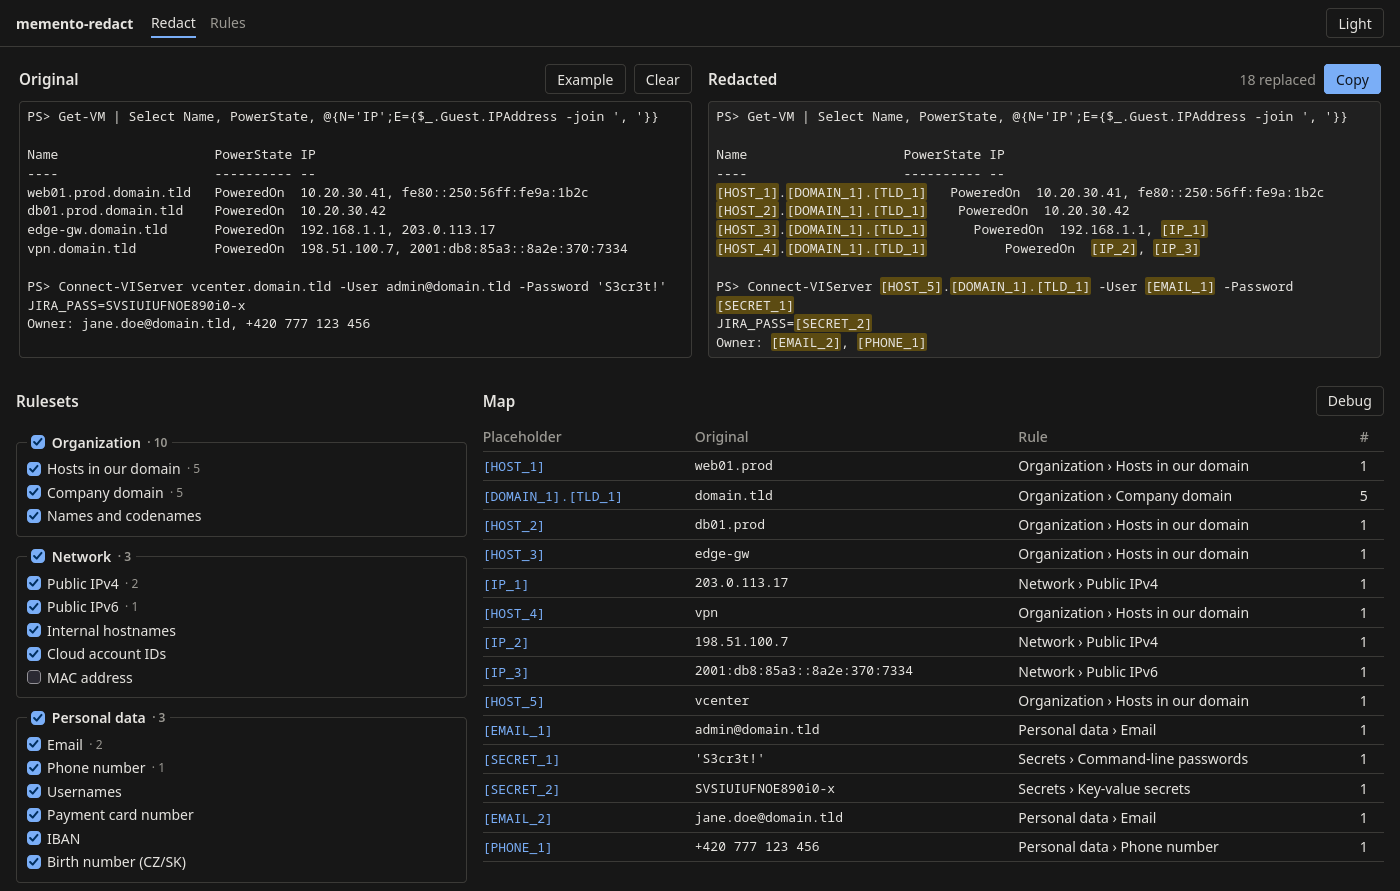
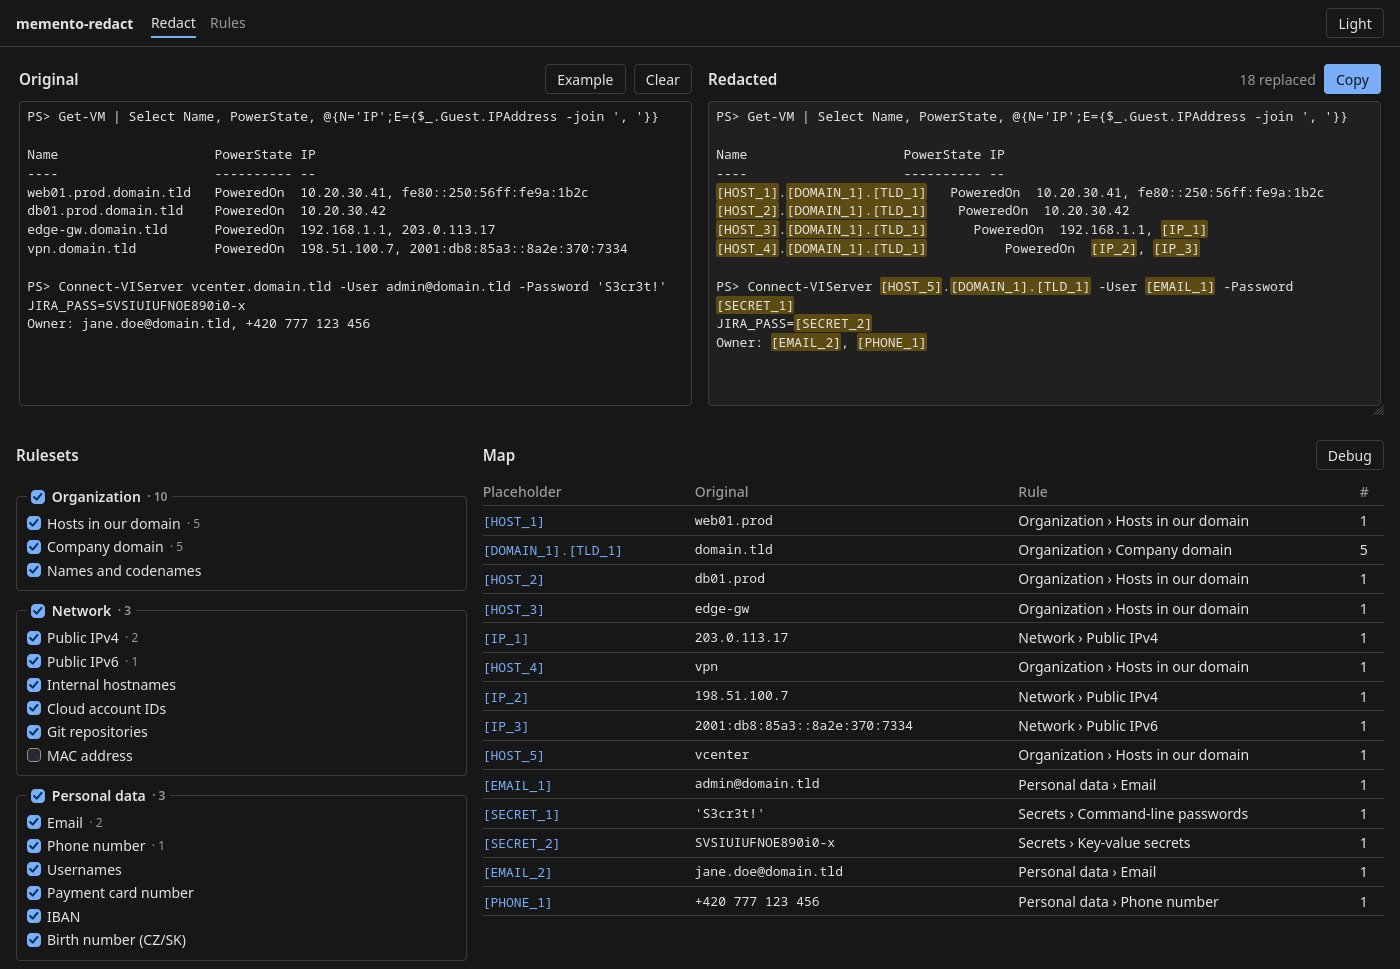
refactor: enhance documentation and user experience for redaction and debug features

diff --git a/web/src/Workspace.tsx b/web/src/Workspace.tsx
@@ -1,7 +1,7 @@
 import { useRef, useState, type ReactNode } from 'react'
 import AutoTextarea from './AutoTextarea'
 import type { MapEntry, PreviewResult, Ruleset } from './api'
-import { debugReport, escapeRegExp, reasons, type Mark, type Reason } from './debug'
+import { debugReport, escapeRegExp, reasons, saveReasons, savedReasons, type Mark } from './debug'
 import { Count, hitKey, updateRule, updateSet } from './RulesEditor'
 
 const example = `PS> Get-VM | Select Name, PowerState, @{N='IP';E={$_.Guest.IPAddress -join ', '}}
@@ -19,6 +19,8 @@ Owner: jane.doe@domain.tld, +420 777 123 456
 `
 
 const entryKey = (entry: MapEntry) => entry.token + '\u0000' + entry.original
+// select value of "New reason…"; a reason name cannot contain it
+const newReason = '\u0000new'
 
 // Copies value and reports the outcome through setNote; on failure the clipboard keeps its old content.
 async function copyText(value: string, setNote: (note: string) => void) {
@@ -78,6 +80,7 @@ export default function Workspace({ text, setText, result, upToDate, previewErro
   const [reported, setReported] = useState(new Map<string, Omit<Mark, 'entry'>>())
   const [missed, setMissed] = useState<string[]>([])
   const [reportNote, setReportNote] = useState('')
+  const [ownReasons, setOwnReasons] = useState(savedReasons)
   const outputRef = useRef<HTMLDivElement>(null)
   const jumps = useRef(new Map<string, number>())
 
@@ -93,18 +96,34 @@ export default function Workspace({ text, setText, result, upToDate, previewErro
   }
   const replacements = result?.map.reduce((sum, entry) => sum + entry.count, 0) ?? 0
 
-
   const marks: Mark[] = (result?.map ?? []).flatMap((entry) => {
     const marked = reported.get(entryKey(entry))
     return marked ? [{ entry, ...marked }] : []
   })
   const report = marks.length || missed.length ? debugReport(result?.redacted ?? '', result?.map ?? [], marks, missed, draft) : ''
 
-  function mark(entry: MapEntry, reason: Reason | '', note = reported.get(entryKey(entry))?.note) {
+  function mark(entry: MapEntry, reason: string, note = reported.get(entryKey(entry))?.note) {
     const next = new Map(reported)
     if (reason) next.set(entryKey(entry), { reason, note })
     else next.delete(entryKey(entry))
     setReported(next)
+  }
+
+  // Asks for a name, saves it as the user's own reason and marks entry with it.
+  function addReason(entry: MapEntry) {
+    const name = prompt('Name of the new reason')?.trim()
+    if (!name) return
+    if (!reasons.has(name) && !ownReasons.includes(name)) {
+      setOwnReasons([...ownReasons, name])
+      saveReasons([...ownReasons, name])
+    }
+    mark(entry, name)
+  }
+
+  function forgetReason(name: string) {
+    const next = ownReasons.filter((r) => r !== name)
+    setOwnReasons(next)
+    saveReasons(next)
   }
 
   // Adds the text selected in the redacted output as a false negative.
@@ -121,7 +140,7 @@ export default function Workspace({ text, setText, result, upToDate, previewErro
 
   return (
     <main className="workspace">
-      {/* one scroll area for both columns, so long texts stay side by side and compact */}
+      {/* one scroll area for both columns, so long texts stay side by side; its height changes only by dragging the corner */}
       <div className="pair">
         <section>
           <div className="section-head">
@@ -131,7 +150,6 @@ export default function Workspace({ text, setText, result, upToDate, previewErro
           </div>
           <AutoTextarea
             className="mono"
-            rows={12}
             value={text}
             onChange={(e) => setText(e.target.value)}
             placeholder="Paste text here. It is redacted as you type and never stored."
@@ -222,21 +240,35 @@ export default function Workspace({ text, setText, result, upToDate, previewErro
                       <td>{entry.count}</td>
                       {debug && (
                         <td>
-                          <select value={reported.get(entryKey(entry))?.reason ?? ''} onChange={(e) => mark(entry, e.target.value as Reason | '')} aria-label={`Report ${entry.token}`}>
+                          <select
+                            value={reported.get(entryKey(entry))?.reason ?? ''}
+                            onChange={(e) => (e.target.value === newReason ? addReason(entry) : mark(entry, e.target.value))}
+                            aria-label={`Report ${entry.token}`}
+                          >
                             <option value="">—</option>
-                            {Object.entries(reasons).map(([reason, meaning]) => (
+                            {[...reasons].map(([reason, meaning]) => (
                               <option key={reason} value={reason} title={meaning}>
                                 {reason}
                               </option>
                             ))}
+                            {ownReasons.length > 0 && (
+                              <optgroup label="Your reasons">
+                                {ownReasons.map((reason) => (
+                                  <option key={reason} value={reason}>
+                                    {reason}
+                                  </option>
+                                ))}
+                              </optgroup>
+                            )}
+                            <option value={newReason}>New reason…</option>
                           </select>
-                          {reported.get(entryKey(entry))?.reason === 'custom' && (
+                          {reported.has(entryKey(entry)) && (
                             <AutoTextarea
                               rows={1}
                               value={reported.get(entryKey(entry))?.note ?? ''}
-                              onChange={(e) => mark(entry, 'custom', e.target.value.replace(/\r?\n/g, ' '))}
-                              placeholder="What is wrong?"
-                              aria-label={`What is wrong with ${entry.token}`}
+                              onChange={(e) => mark(entry, reported.get(entryKey(entry))?.reason ?? '', e.target.value.replace(/\r?\n/g, ' '))}
+                              placeholder="Description (optional)"
+                              aria-label={`Description for ${entry.token}`}
                             />
                           )}
                         </td>
@@ -272,6 +304,16 @@ export default function Workspace({ text, setText, result, upToDate, previewErro
                   Copy report
                 </button>
               </div>
+              {ownReasons.length > 0 && (
+                <p className="muted">
+                  Your reasons:{' '}
+                  {ownReasons.map((reason) => (
+                    <button key={reason} className="chip" onClick={() => forgetReason(reason)} aria-label={`Remove reason ${reason}`} title="Remove this reason">
+                      {reason} ✕
+                    </button>
+                  ))}
+                </p>
+              )}
               {report && (
                 <>
                   <AutoTextarea className="mono" rows={1} value={report} readOnly aria-label="Debug report" />

diff --git a/web/src/debug.ts b/web/src/debug.ts
@@ -1,17 +1,34 @@
 import type { MapEntry, Ruleset } from './api'
 
-// Reasons a placeholder can be wrong, shown in the map in debug mode.
-export const reasons = {
-  'false positive': 'should not be redacted',
-  'too much': 'the redaction covers more than the sensitive part',
-  'too little': 'part of the sensitive value stays visible',
-  'wrong type': 'right to redact, but the wrong rule or placeholder',
-  'wrong number': 'one value got several numbers, or several values share one',
-  custom: 'describe it yourself',
+// Reasons a placeholder can be wrong, shown in the map in debug mode; the user can save more.
+export const reasons = new Map([
+  ['false positive', 'should not be redacted'],
+  ['too much', 'the redaction covers more than the sensitive part'],
+  ['too little', 'part of the sensitive value stays visible'],
+  ['wrong type', 'right to redact, but the wrong rule or placeholder'],
+  ['wrong number', 'one value got several numbers, or several values share one'],
+  ['other', 'something else'],
+])
+// reason is a key of reasons or one of the user's own reasons; note is an optional description
+export type Mark = { entry: MapEntry; reason: string; note?: string }
+
+// The user's own reasons live in this browser only.
+export function savedReasons(): string[] {
+  try {
+    const list: unknown = JSON.parse(localStorage.getItem('debugReasons') ?? '[]')
+    return Array.isArray(list) ? list.filter((r): r is string => typeof r === 'string') : []
+  } catch {
+    return []
+  }
 }
-export type Reason = keyof typeof reasons
-// note is the description for the custom reason
-export type Mark = { entry: MapEntry; reason: Reason; note?: string }
+
+export function saveReasons(list: string[]) {
+  try {
+    localStorage.setItem('debugReasons', JSON.stringify(list))
+  } catch {
+    // storage unavailable (private mode): the reasons last until reload
+  }
+}
 
 export const escapeRegExp = (s: string) => s.replace(/[.*+?^${}()|[\]\\]/g, '\\$&')
 
@@ -37,8 +54,9 @@ export function debugReport(redacted: string, map: MapEntry[], marks: Mark[], mi
   let n = 0
   for (const { entry, reason, note } of marks) {
     const rule = sets.find((s) => s.name === entry.ruleset)?.rules.find((r) => r.name === entry.rule)
-    const why = reason === 'custom' ? note?.trim() || 'no description' : reasons[reason]
-    out.push(`${++n}. ${reason} (${why}): ${entry.token} = ${JSON.stringify(entry.original)}, ${entry.count}x`)
+    const meaning = reasons.has(reason) ? ` (${reasons.get(reason)})` : ''
+    out.push(`${++n}. ${reason}${meaning}: ${entry.token} = ${JSON.stringify(entry.original)}, ${entry.count}x`)
+    if (note?.trim()) out.push(`   note: ${note.trim()}`)
     out.push(`   rule: ${entry.ruleset} › ${entry.rule}` + (rule ? `, ${rule.type}, placeholder ${rule.placeholder}${rule.per_part ? ', number each part' : ''}` : ''))
     // a words list is your list of sensitive names, so only regexes go into the report
     if (rule?.type === 'regex') {

diff --git a/web/src/debug.test.ts b/web/src/debug.test.ts
@@ -27,7 +27,7 @@ test('restores only the marked values and keeps words lists out', () => {
     map,
     [
       { entry: map[0], reason: 'false positive' },
-      { entry: map[2], reason: 'custom', note: ' a.sk is our test domain ' },
+      { entry: map[2], reason: 'wrong number', note: ' a.sk is our test domain ' },
     ],
     ['jdoe'],
     sets,
@@ -45,7 +45,8 @@ test('restores only the marked values and keeps words lists out', () => {
    redacted:   [HOST_1].acme again
    unredacted: web01.acme again
 
-2. custom (a.sk is our test domain): [DOMAIN] = "a.sk", 1x
+2. wrong number (one value got several numbers, or several values share one): [DOMAIN] = "a.sk", 1x
+   note: a.sk is our test domain
    rule: Org › Domains, words, placeholder [DOMAIN]
    line:       see [DOMAIN] and [DOMAIN]
 
@@ -55,8 +56,8 @@ test('restores only the marked values and keeps words lists out', () => {
   )
 })
 
-test('a custom reason without a description says so', () => {
-  assert.match(debugReport('[HOST_1]', map, [{ entry: map[0], reason: 'custom' }], [], []), /^1\. custom \(no description\): \[HOST_1\]/m)
+test("the user's own reason has no built-in meaning, and an empty note is left out", () => {
+  assert.match(debugReport('[HOST_1]', map, [{ entry: map[0], reason: 'test host', note: '  ' }], [], []), /^1\. test host: \[HOST_1\] = "web01", 2x\n {3}rule:/m)
 })
 
 test('works without marks', () => {

diff --git a/web/src/styles.css b/web/src/styles.css
@@ -209,11 +209,19 @@ textarea {
   margin-top: 1.5rem;
 }
 
-/* long content scrolls inside its area instead of stretching the page */
+/* a fixed height (the size of an empty page) that the user changes by dragging the bottom-right corner */
 .pair {
-  max-height: 75vh;
+  height: 18rem;
+  min-height: 8rem;
+  resize: vertical;
   overflow: auto;
+  container-type: size;
   padding: 0 3px 3px;
+}
+
+/* both boxes fill the window; longer text scrolls the pair as one */
+.pair textarea, .pair .output {
+  min-height: calc(100cqh - 2.75rem);
 }
 
 .pair .section-head {
@@ -247,7 +255,6 @@ textarea {
 }
 
 .output {
-  min-height: 12rem;
   padding: 0.3rem 0.45rem;
   border: 1px solid var(--border);
   border-radius: 4px;
@@ -322,6 +329,12 @@ fieldset.off > label, .ruleset.off .rule, .rule.off {
 
 .map textarea {
   margin-top: 0.25rem;
+}
+
+button.chip {
+  margin: 0 0.3rem 0.3rem 0;
+  padding: 0 0.5rem;
+  border-radius: 999px;
 }
 
 .debug .section-head {

diff --git a/web/src/AutoTextarea.tsx b/web/src/AutoTextarea.tsx
@@ -10,9 +10,13 @@ export default function AutoTextarea(props: TextareaHTMLAttributes<HTMLTextAreaE
     el.style.height = `${el.scrollHeight + el.offsetHeight - el.clientHeight}px`
   }
   useLayoutEffect(fit, [props.value])
+  // refit when the surrounding box changes size: window resize, or the user dragging a resizable parent
   useEffect(() => {
-    window.addEventListener('resize', fit)
-    return () => window.removeEventListener('resize', fit)
+    const parent = ref.current?.parentElement
+    if (!parent) return
+    const observer = new ResizeObserver(() => fit())
+    observer.observe(parent)
+    return () => observer.disconnect()
   }, [])
   return <textarea ref={ref} {...props} />
 }

diff --git a/internal/rules/rules_test.go b/internal/rules/rules_test.go
@@ -209,10 +209,12 @@ func TestDefaultPresets(t *testing.T) {
 		{"Public IPv4", "10.1.2.3 172.16.0.1 172.32.0.1 192.168.1.1 100.64.0.1 127.0.0.1 169.254.1.1 255.255.255.0 224.0.0.1 8.8.8.8 203.0.113.17 999.1.1.1", []string{"172.32.0.1", "8.8.8.8", "203.0.113.17"}},
 		{"Public IPv4", "build 4.2.0.0.1, OID 1.3.6.1.4.1.311, dns 8.8.4.4. proxy 1.2.3.4:443", []string{"8.8.4.4", "1.2.3.4"}},
 		{"Public IPv6", "2001:db8:85a3::8a2e:370:7334 fe80::250:56ff:fe9a:1b2c fd00::1 ff02::1 12:30:45 00:50:56:9a:1b:2c 2001:0db8:0000:0000:0000:ff00:0042:8329", []string{"2001:db8:85a3::8a2e:370:7334", "2001:0db8:0000:0000:0000:ff00:0042:8329"}},
+		{"Git repositories", "git clone git@bitbucket.org:acme/infra-tools.git; git clone https://gitlab.example.com/team/app.git && git remote add up ssh://git@gitlab.example.com:2222/team/sub/tool.git; docs: https://github.com/acme/web", []string{"acme/infra-tools.git", "team/app.git", "team/sub/tool.git"}},
 		{"MAC address", "00:50:56:9a:1b:2c and 00-50-56-9A-1B-2C", []string{"00:50:56:9a:1b:2c", "00-50-56-9A-1B-2C"}},
-		{"Email", "mail jane.doe+x@corp.example.com now", []string{"jane.doe+x@corp.example.com"}},
+		{"Email", "mail jane.doe+x@corp.example.com now, clone git@bitbucket.org:acme/infra.git", []string{"jane.doe+x@corp.example.com"}},
 		{"Phone number", "+420 777 123 456, +1 (555) 123-4567, 555-123-4567, +420777123456, 10.20.30.40, 2024", []string{"+420 777 123 456", "+1 (555) 123-4567", "555-123-4567", "+420777123456"}},
 		{"Internal hostnames", "srv-db01.corp.local printer.lan api.svc.cluster.local pg.default.svc.cluster.local localhost.local example.com", []string{"srv-db01.corp", "printer"}},
+		{"Cloud account IDs", "account_id: `123456789012` tenant_id = “72f988bf-86f1-41af-91ab-2d7cd011db47”", []string{"123456789012", "72f988bf-86f1-41af-91ab-2d7cd011db47"}},
 		{"Cloud account IDs", `arn:aws:iam::123456789012:role/x /subscriptions/0b1f6471-1bf0-4dda-aec3-111122223333/rg AWS_ACCOUNT_ID=210987654321 "tenantId": "72f988bf-86f1-41af-91ab-2d7cd011db47" account_id=42`, []string{"123456789012", "0b1f6471-1bf0-4dda-aec3-111122223333", "210987654321", "72f988bf-86f1-41af-91ab-2d7cd011db47"}},
 		{"Usernames", `JIRA_USER=marek user: root CORP\jdoe HKLM\Software /home/alice/x C:\Users\Bob\AppData C:\Users\Public "username": "carol" User-Agent: curl`, []string{"marek", "jdoe", "alice", "Bob", "carol"}},
 		{"Payment card number", "4111 1111 1111 1111, 5500-0000-0000-0004, 378282246310005, 1234 5678 9012 3456", []string{"4111 1111 1111 1111", "5500-0000-0000-0004", "378282246310005"}},
@@ -222,9 +224,11 @@ func TestDefaultPresets(t *testing.T) {
 		{"Key-value secrets", "JIRA_PASS=SVSIUIUFNOE890i0-x\nexport SMTP_PASSWORD=\"correct horse battery\"\nldap.pass: 'a b'\nDB_PASS=\"unclosed\nempty_token=\"\"", []string{"SVSIUIUFNOE890i0-x", "correct horse battery", "a b", "unclosed"}},
 		{"Key-value secrets", `config['db_password'] = 'p w' "credentials": { heslo := tajne 'password' => 'x' client_secret=abc&scope=y aws_secret_access_key = wJalr`, []string{"p w", "tajne", "x", "abc", "wJalr"}},
 		{"Usernames", `	DB_USER=$(jq -r '.db["user"]' "$CONFIG_FILE") USER=$USER login: "${LOGIN}"`, nil},
+		{"Usernames", "admin_user: `jdoe` login = “ops” uid: „svc“ USER=`whoami` $admin_user = Read-Host -Prompt 'User' $user = 'carol'", []string{"jdoe", "ops", "svc", "carol"}},
 		{"Usernames", `<entry key="dbUsername" value="svc_app"/> <entry key="dbLogin">ops</entry> <username>deploy</username>`, []string{"svc_app", "ops", "deploy"}},
 		{"Key-value secrets", "DB_PASSWORD=$(jq -r '.db[\"password\"]' \"$CONFIG_FILE\")\nPASS=\"${JIRA_PASS}\" TOKEN=$TOKEN API_KEY=%API_KEY% token=$env:TOKEN pass=$1 secret: \"{{ .Values.secret }}\" token: ${{ secrets.TOKEN }} PASS=$(cat /run/secrets/db) PASS=`cat f` DB_PASS=\"$DB_USER:$DB_PASS\"", nil},
 		{"Key-value secrets", `DB_PASS=${DB_PASS:-hunter2} PASS=$(echo 'p@ss' | base64 -d) TOKEN=$(printf -n s3cr3t) PASS=$(echo $OTHER)`, []string{"${DB_PASS:-hunter2}", "'p@ss'", "s3cr3t"}},
+		{"Key-value secrets", "password: `hunter2` api_key = “abc123” token: «xyz789» secret := `raw` PASS=`cat f` $db_password = Read-Host -AsSecureString $db_pass = 'p w' $api_token = $null", []string{"hunter2", "abc123", "xyz789", "raw", "p w"}},
 		{"Key-value secrets", `<entry key="dbPassword" value="hunter2"/> <entry key="apiToken">tok123</entry> <password>maven-pw</password> <input type="password"><label>`, []string{"hunter2", "tok123", "maven-pw"}},
 		{"Command-line passwords", `--password "$PASS" -Password $env:PASS --token=${TOKEN} --api-key $(vault read -field=key x)`, nil},
 		{"Auth headers", `curl -H "Authorization: Bearer $JIRA_TOKEN" -H "X-Api-Key: ${KEY}"`, nil},

diff --git a/README.md b/README.md
@@ -28,10 +28,10 @@ Rules live in the `memento-data` volume and survive restarts and upgrades. The p
 
 ## Using it
 
-1. **Redact**: paste text into *Original*. *Redacted* updates as you type, and the text itself is never stored. Hover a placeholder to see what it replaced. In the *Map*, click a placeholder to jump to it in the text; click again for the next occurrence. Then click **Copy**.
+1. **Redact**: paste text into *Original*. Drag the bottom-right corner to make the two boxes taller. *Redacted* updates as you type, and the text itself is never stored. Hover a placeholder to see what it replaced. In the *Map*, click a placeholder to jump to it in the text; click again for the next occurrence. Then click **Copy**.
 2. **Something is not redacted?** Add the word to *Organization → Names and codenames*, or add a regex rule on the **Rules** page. The preview uses your edits right away.
 3. **Save** stores the rules on the server, for the CLI too. **Discard** goes back to the last save. **Restore preset** resets one ruleset, **Reset all** resets everything, and **Export** / **Import…** move the rules as YAML.
-4. **Report a wrong redaction**: click **Debug** in the *Map*. Pick a reason next to a wrong placeholder (false positive, too much, too little, wrong type, wrong number, or custom with your own description). To report text that was not redacted, select it in *Redacted* and click **Add selection**. Then click **Copy report**. The report lists each item with its rule and the lines it occurs in. Only the values you marked are restored; everything else stays redacted.
+4. **Report a wrong redaction**: click **Debug** in the *Map*. Pick a reason next to a wrong placeholder (false positive, too much, too little, wrong type, wrong number, other) and add a description if you like. **New reason…** saves your own reason in this browser for next time. To report text that was not redacted, select it in *Redacted* and click **Add selection**. Then click **Copy report**. The report lists each item with its rule and the lines it occurs in. Only the values you marked are restored; everything else stays redacted.
 
 **Rules page**: words and regexes, placeholders, *Keep* exceptions and *Number each part*. "How rules work" and a regex cheat sheet open at the top.
 
@@ -40,11 +40,11 @@ Rules live in the `memento-data` volume and survive restarts and upgrades. The p
   <img alt="The Rules page: the Organization ruleset with a regex rule for hosts, a words rule for the company domain with Number each part ticked, and an empty Names and codenames rule" src="docs/screenshots/rules-light.png">
 </picture>
 
-**Debug mode**: a placeholder marked with a custom reason, and the report ready to copy.
+**Debug mode**: a placeholder marked as a false positive with a description, and the report ready to copy.
 
 <picture>
   <source media="(prefers-color-scheme: dark)" srcset="docs/screenshots/debug-dark.png">
-  <img alt="Debug mode: the map with a Report column, [PHONE_1] marked custom with the note 'our public support line, fine to keep', and the generated debug report below" src="docs/screenshots/debug-light.png" width="640">
+  <img alt="Debug mode: the map with a Report column, [PHONE_1] marked false positive with the description 'our public support line, fine to keep', and the generated debug report below" src="docs/screenshots/debug-light.png" width="640">
 </picture>
 
 From the command line:

diff --git a/docs/rules.md b/docs/rules.md
@@ -104,12 +104,16 @@ If a part contains `#`, the number replaces it (`[D#].[T#]` → `[D1].[T1]`). Ot
 
 `$VAR`, `${VAR}`, `$(command)`, `` `command` ``, `%VAR%`, `$env:VAR` and `{{ template }}` hold no secret themselves, so the presets' *keep* regex leaves them alone. A default value (`${VAR:-literal}`) or a literal inside `$(echo …)` is still redacted.
 
+PowerShell `$password = Read-Host -AsSecureString` is kept too: an unquoted word after `$x =` is a command call there, not a value. `$password = 'hunter2'` is redacted.
+
+Backticks depend on the separator. In shell, `` PASS=`cat file` `` (no spaces around `=`) runs a command, so it is kept. After `:`, `:=`, `=>` or a spaced `=`, backticks are quotes (Markdown, Go raw strings), so `` password: `hunter2` `` becomes `` password: `[SECRET_1]` ``. Typographic quotes (`“…”`, `„…“`, `‘…’`, `«…»`) work like `"…"`: only the inside is replaced.
+
 ## Presets
 
 | Ruleset | What it finds |
 |---|---|
 | Organization | Hosts in your domain, the domain itself, your own list of names and codenames |
-| Network | Public IPv4 and IPv6 (private ranges kept), internal hostnames, cloud account IDs, MAC addresses (off by default) |
+| Network | Public IPv4 and IPv6 (private ranges kept), internal hostnames, cloud account IDs, git repository paths (`git@host:path`, clone URLs ending in `.git`), MAC addresses (off by default) |
 | Personal data | Email, phone numbers, usernames, payment cards, IBAN, CZ/SK birth numbers |
 | Secrets | Key-value secrets, command-line passwords, PowerShell SecureString, auth headers, credentials in URLs and curl, private keys (PEM, OpenSSH, SSH2, PGP, PuTTY, age; also cut off or base64-encoded), well-known token formats, webhook URLs |
 
